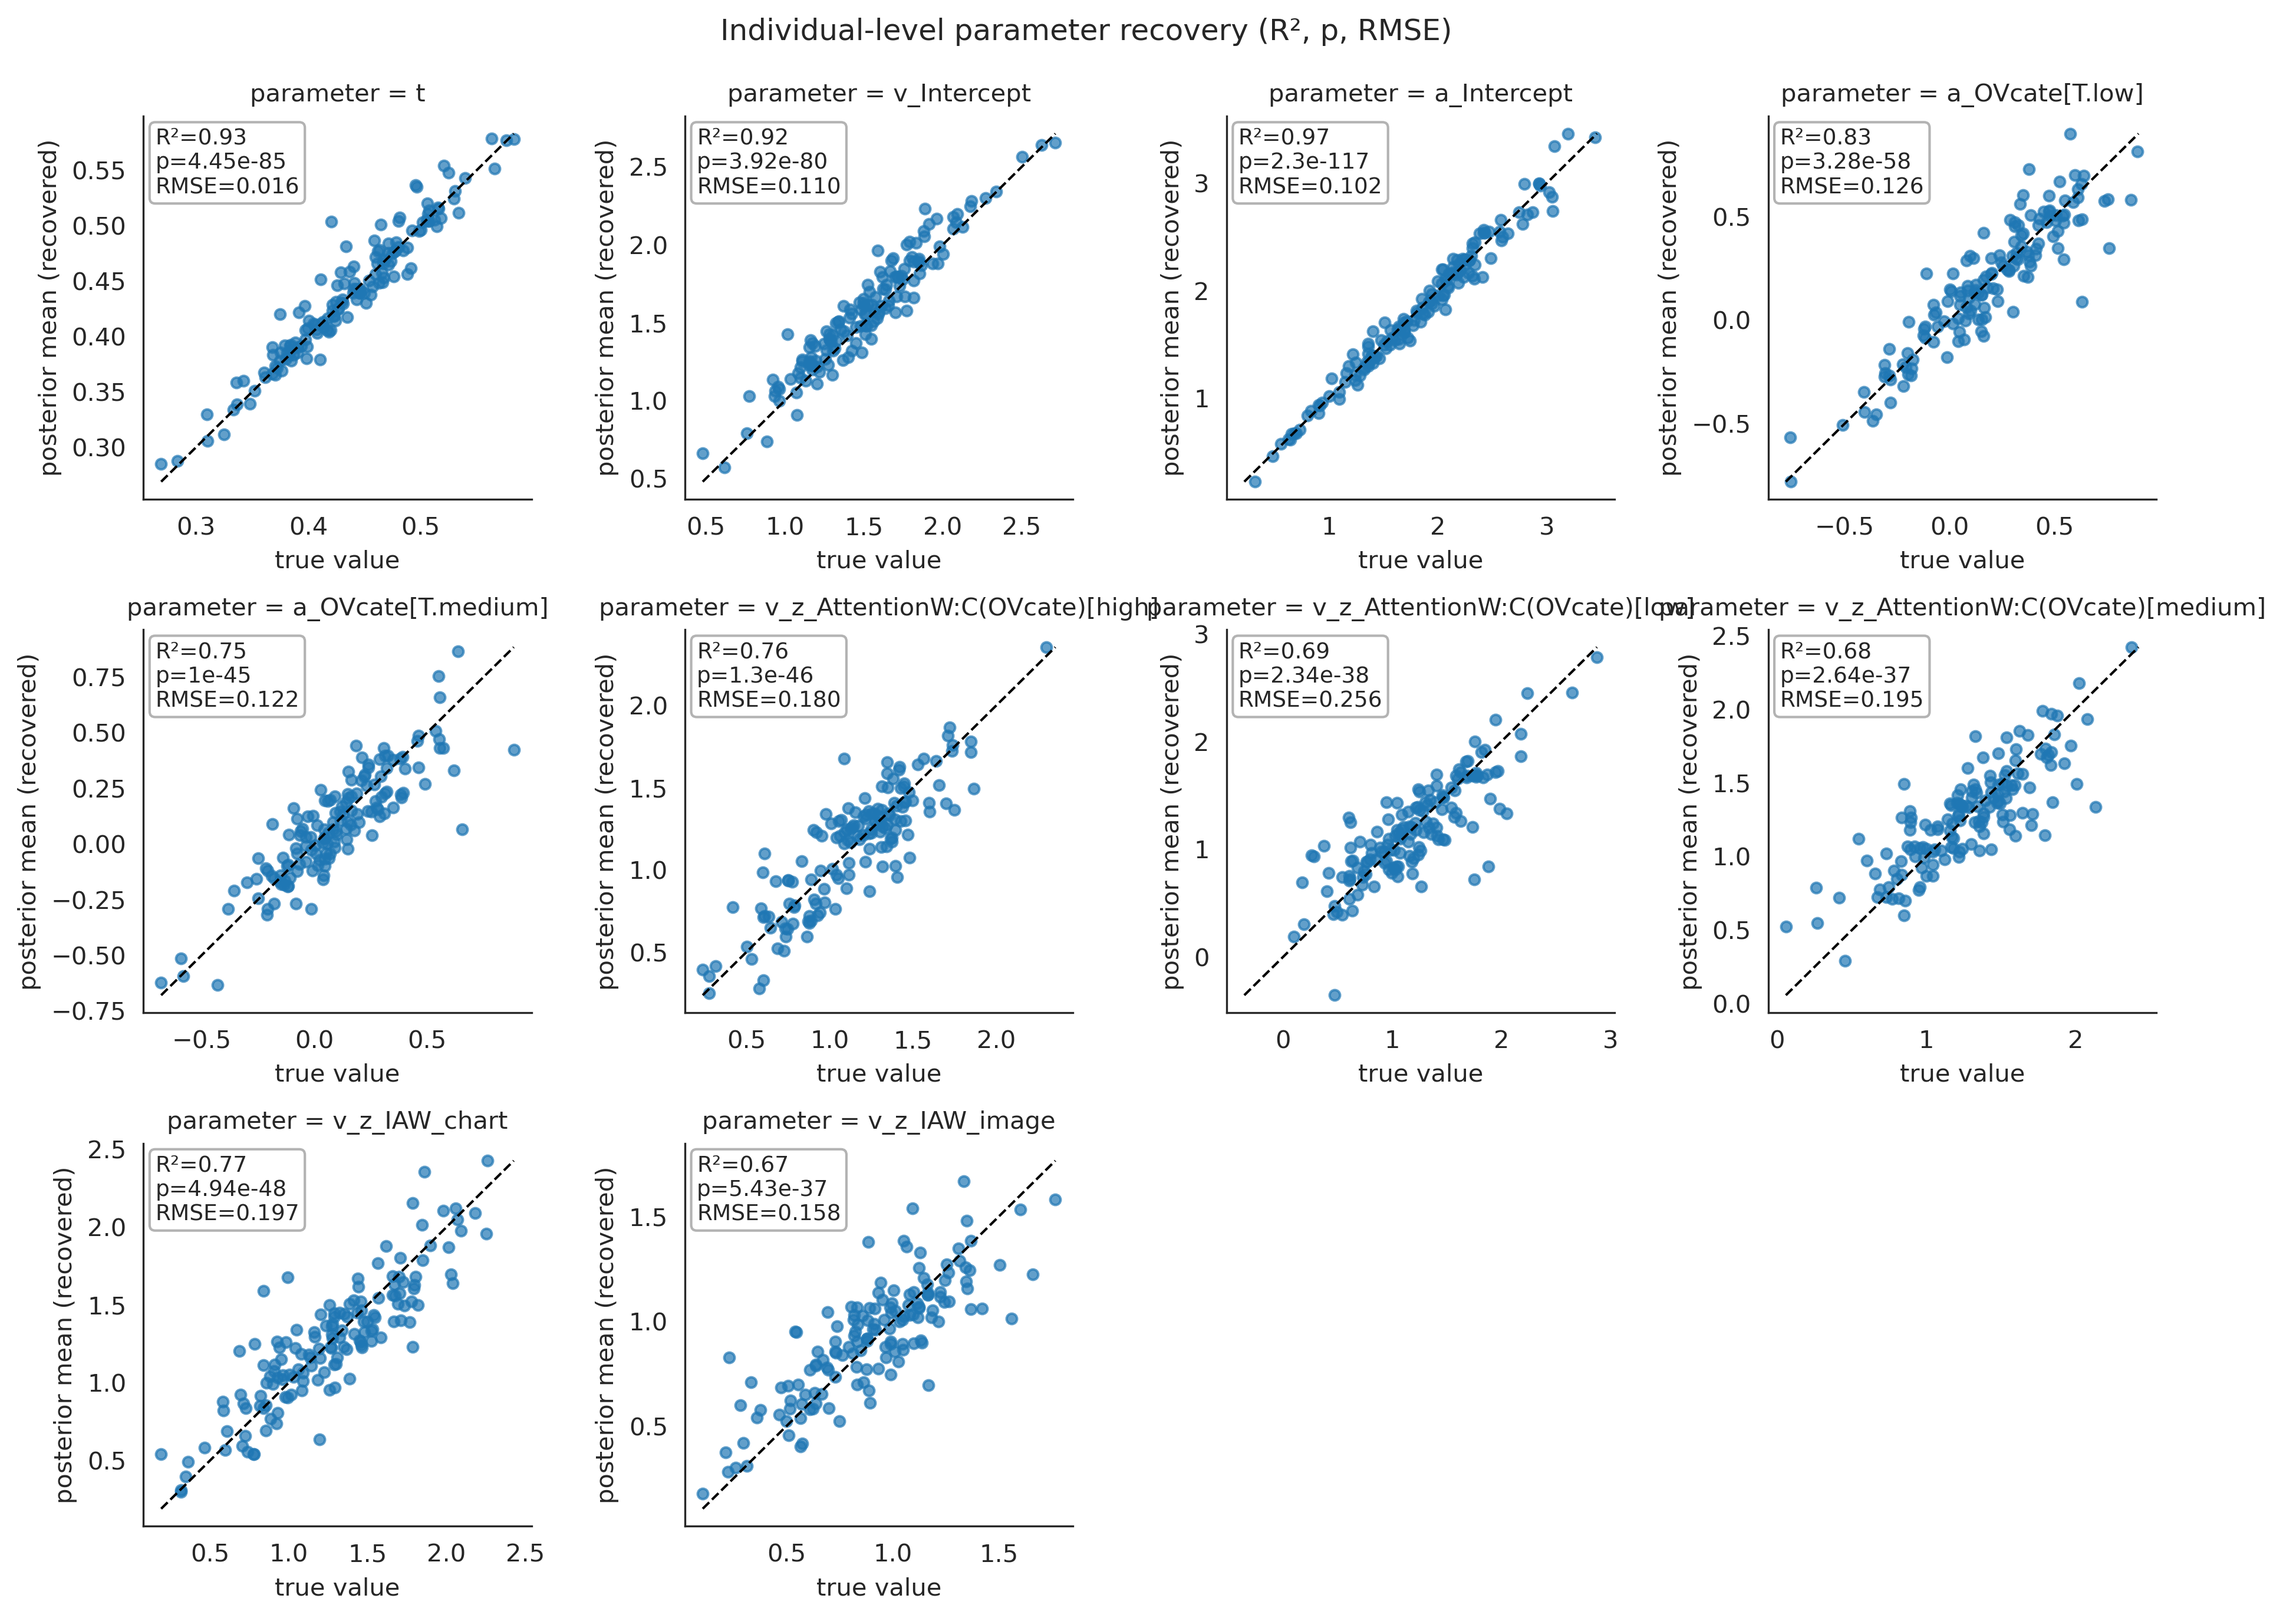
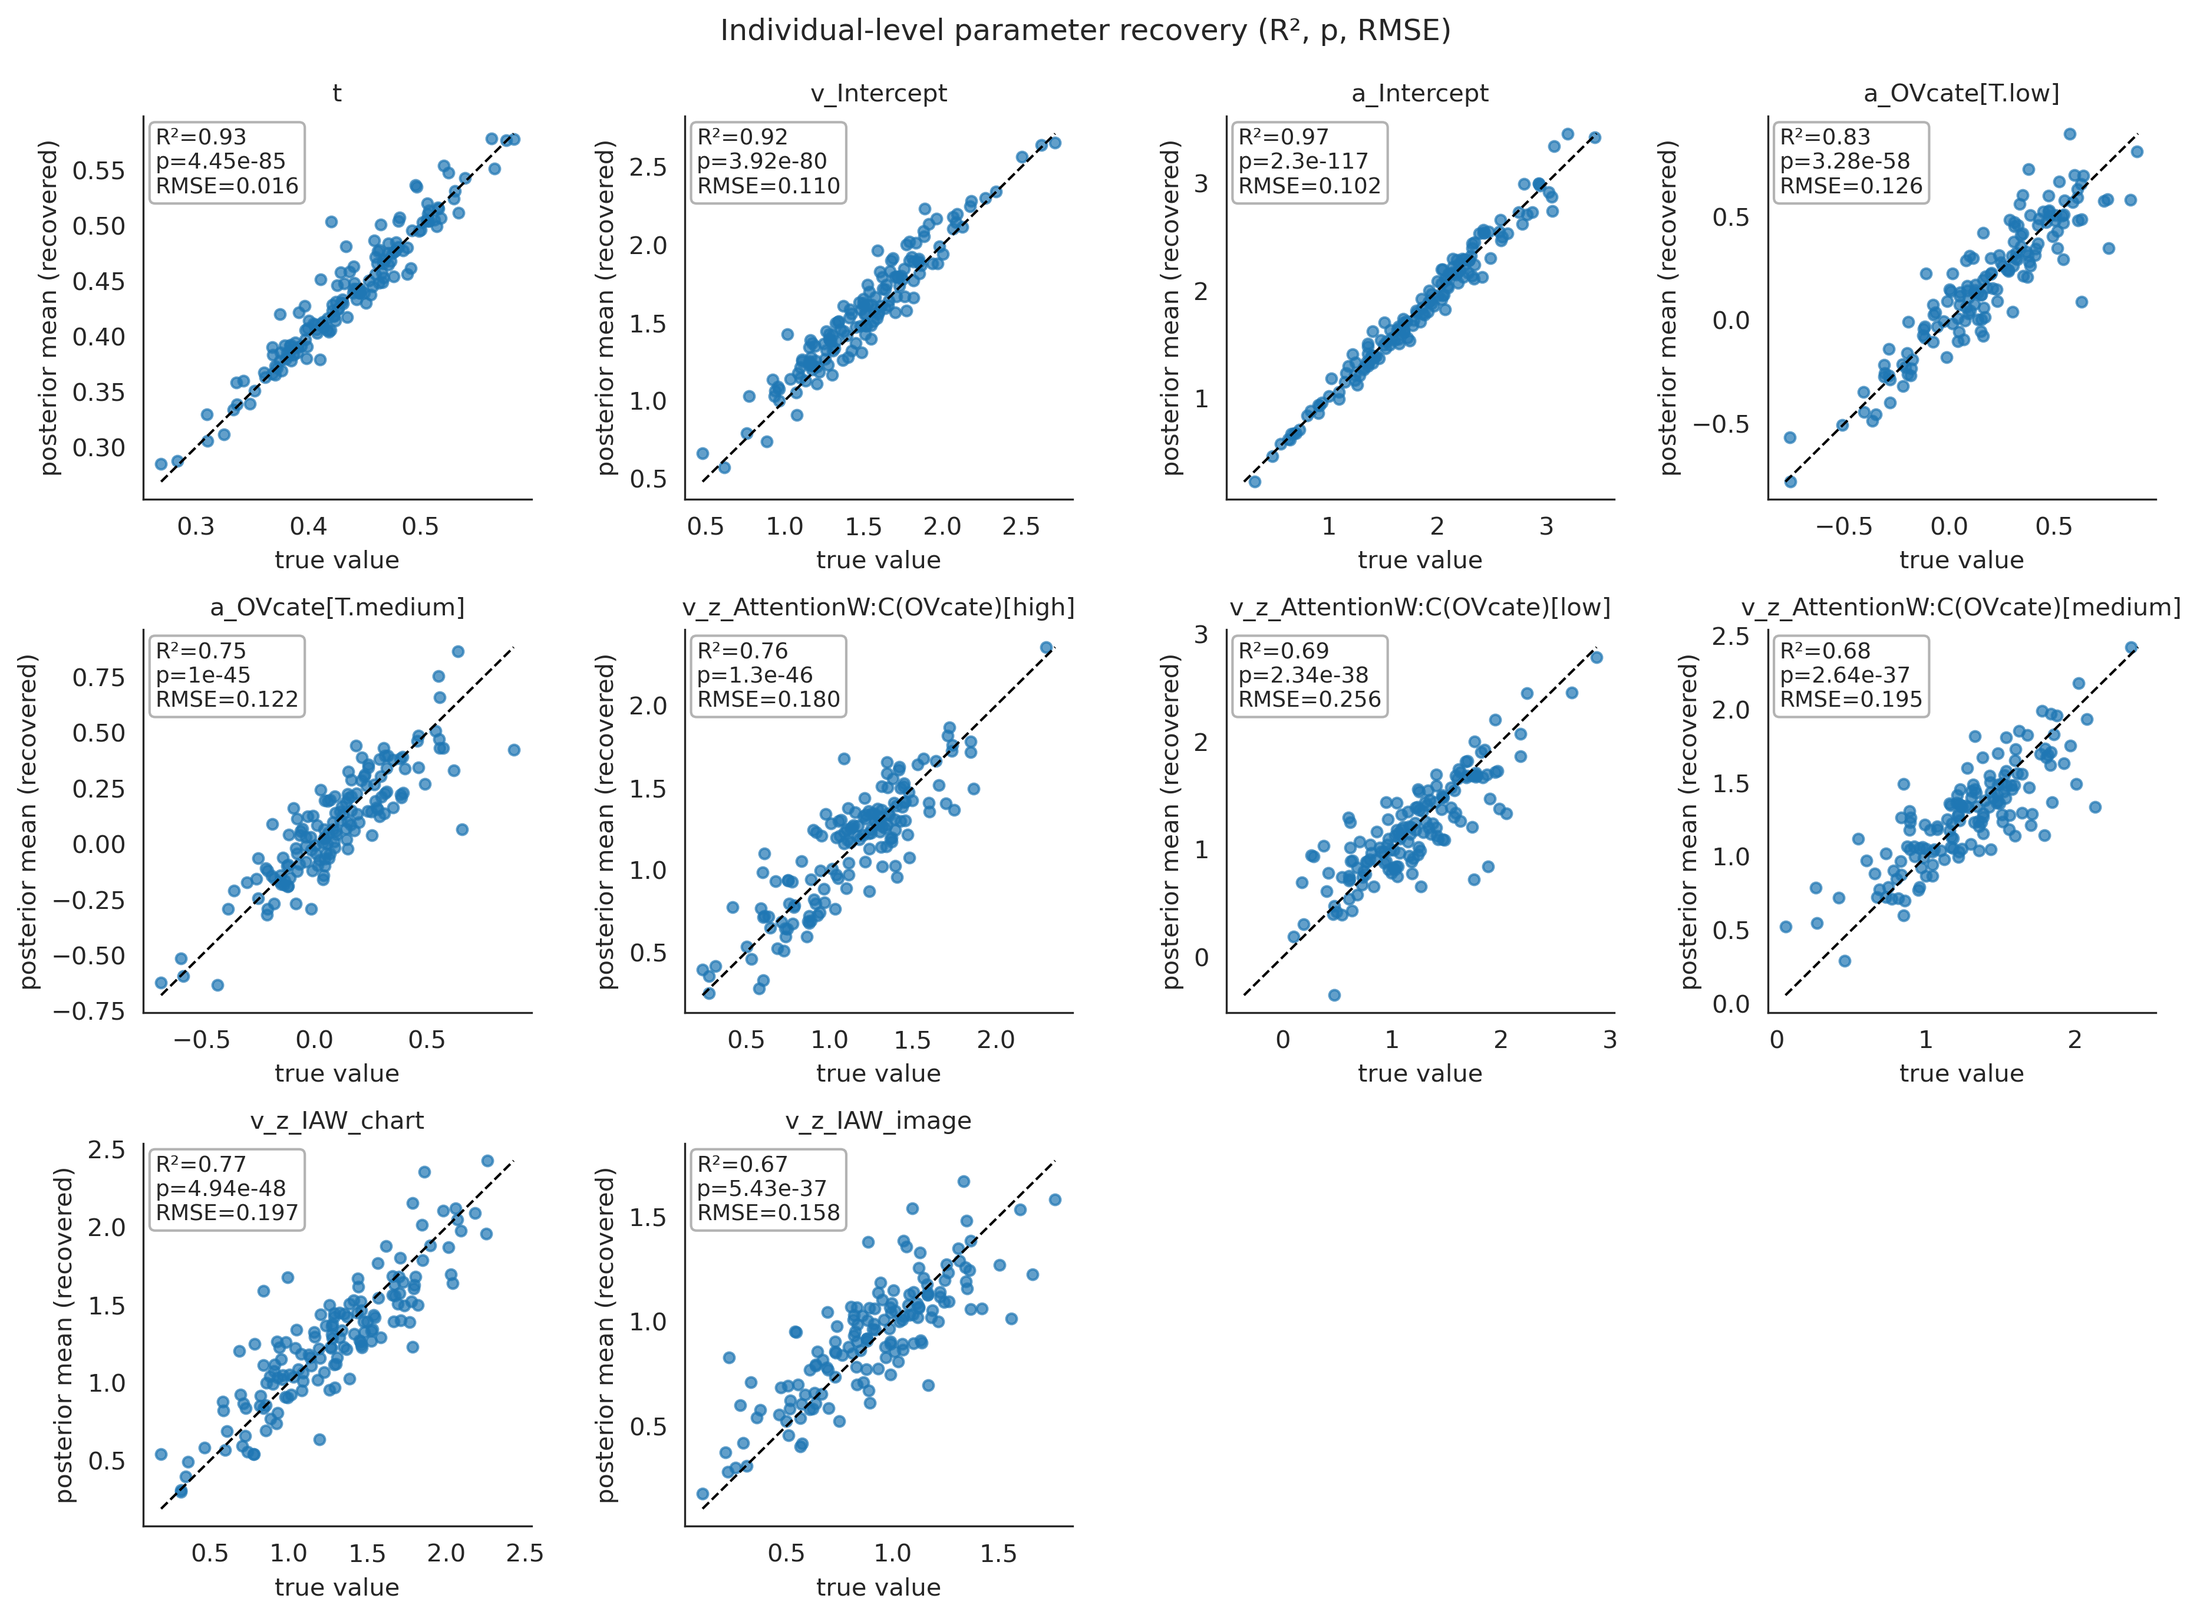
...

diff --git a/aDDM_Garcia_run_all_mod.py b/aDDM_Garcia_run_all_mod.py
@@ -754,10 +754,10 @@ def run_model(trace_id, data, model_dir, model_name, version, phase, samples=100
     
     elif phase == 'LE_RL':
         if version == 0:
-            m = hddm.models.HDDMrl(data)
+            m = hddm.models.HDDMrl(data, include=['a', 't', 'v', 'alpha'])
             m.find_starting_values()
             infdata = m.sample(samples,
-                               burn=100,
+                               burn=300,
                                dbname=os.path.join(model_dir, model_name + f'_db{trace_id}'), 
                                db='pickle',
                                return_infdata=True, loglike=True, ppc=False)
@@ -867,7 +867,7 @@ from joblib import Parallel, delayed
 
 def drift_diffusion_hddmRL(
     data,
-    samples=600,
+    samples=2000,
     n_jobs=3,
     run=True,
     parallel=True,
